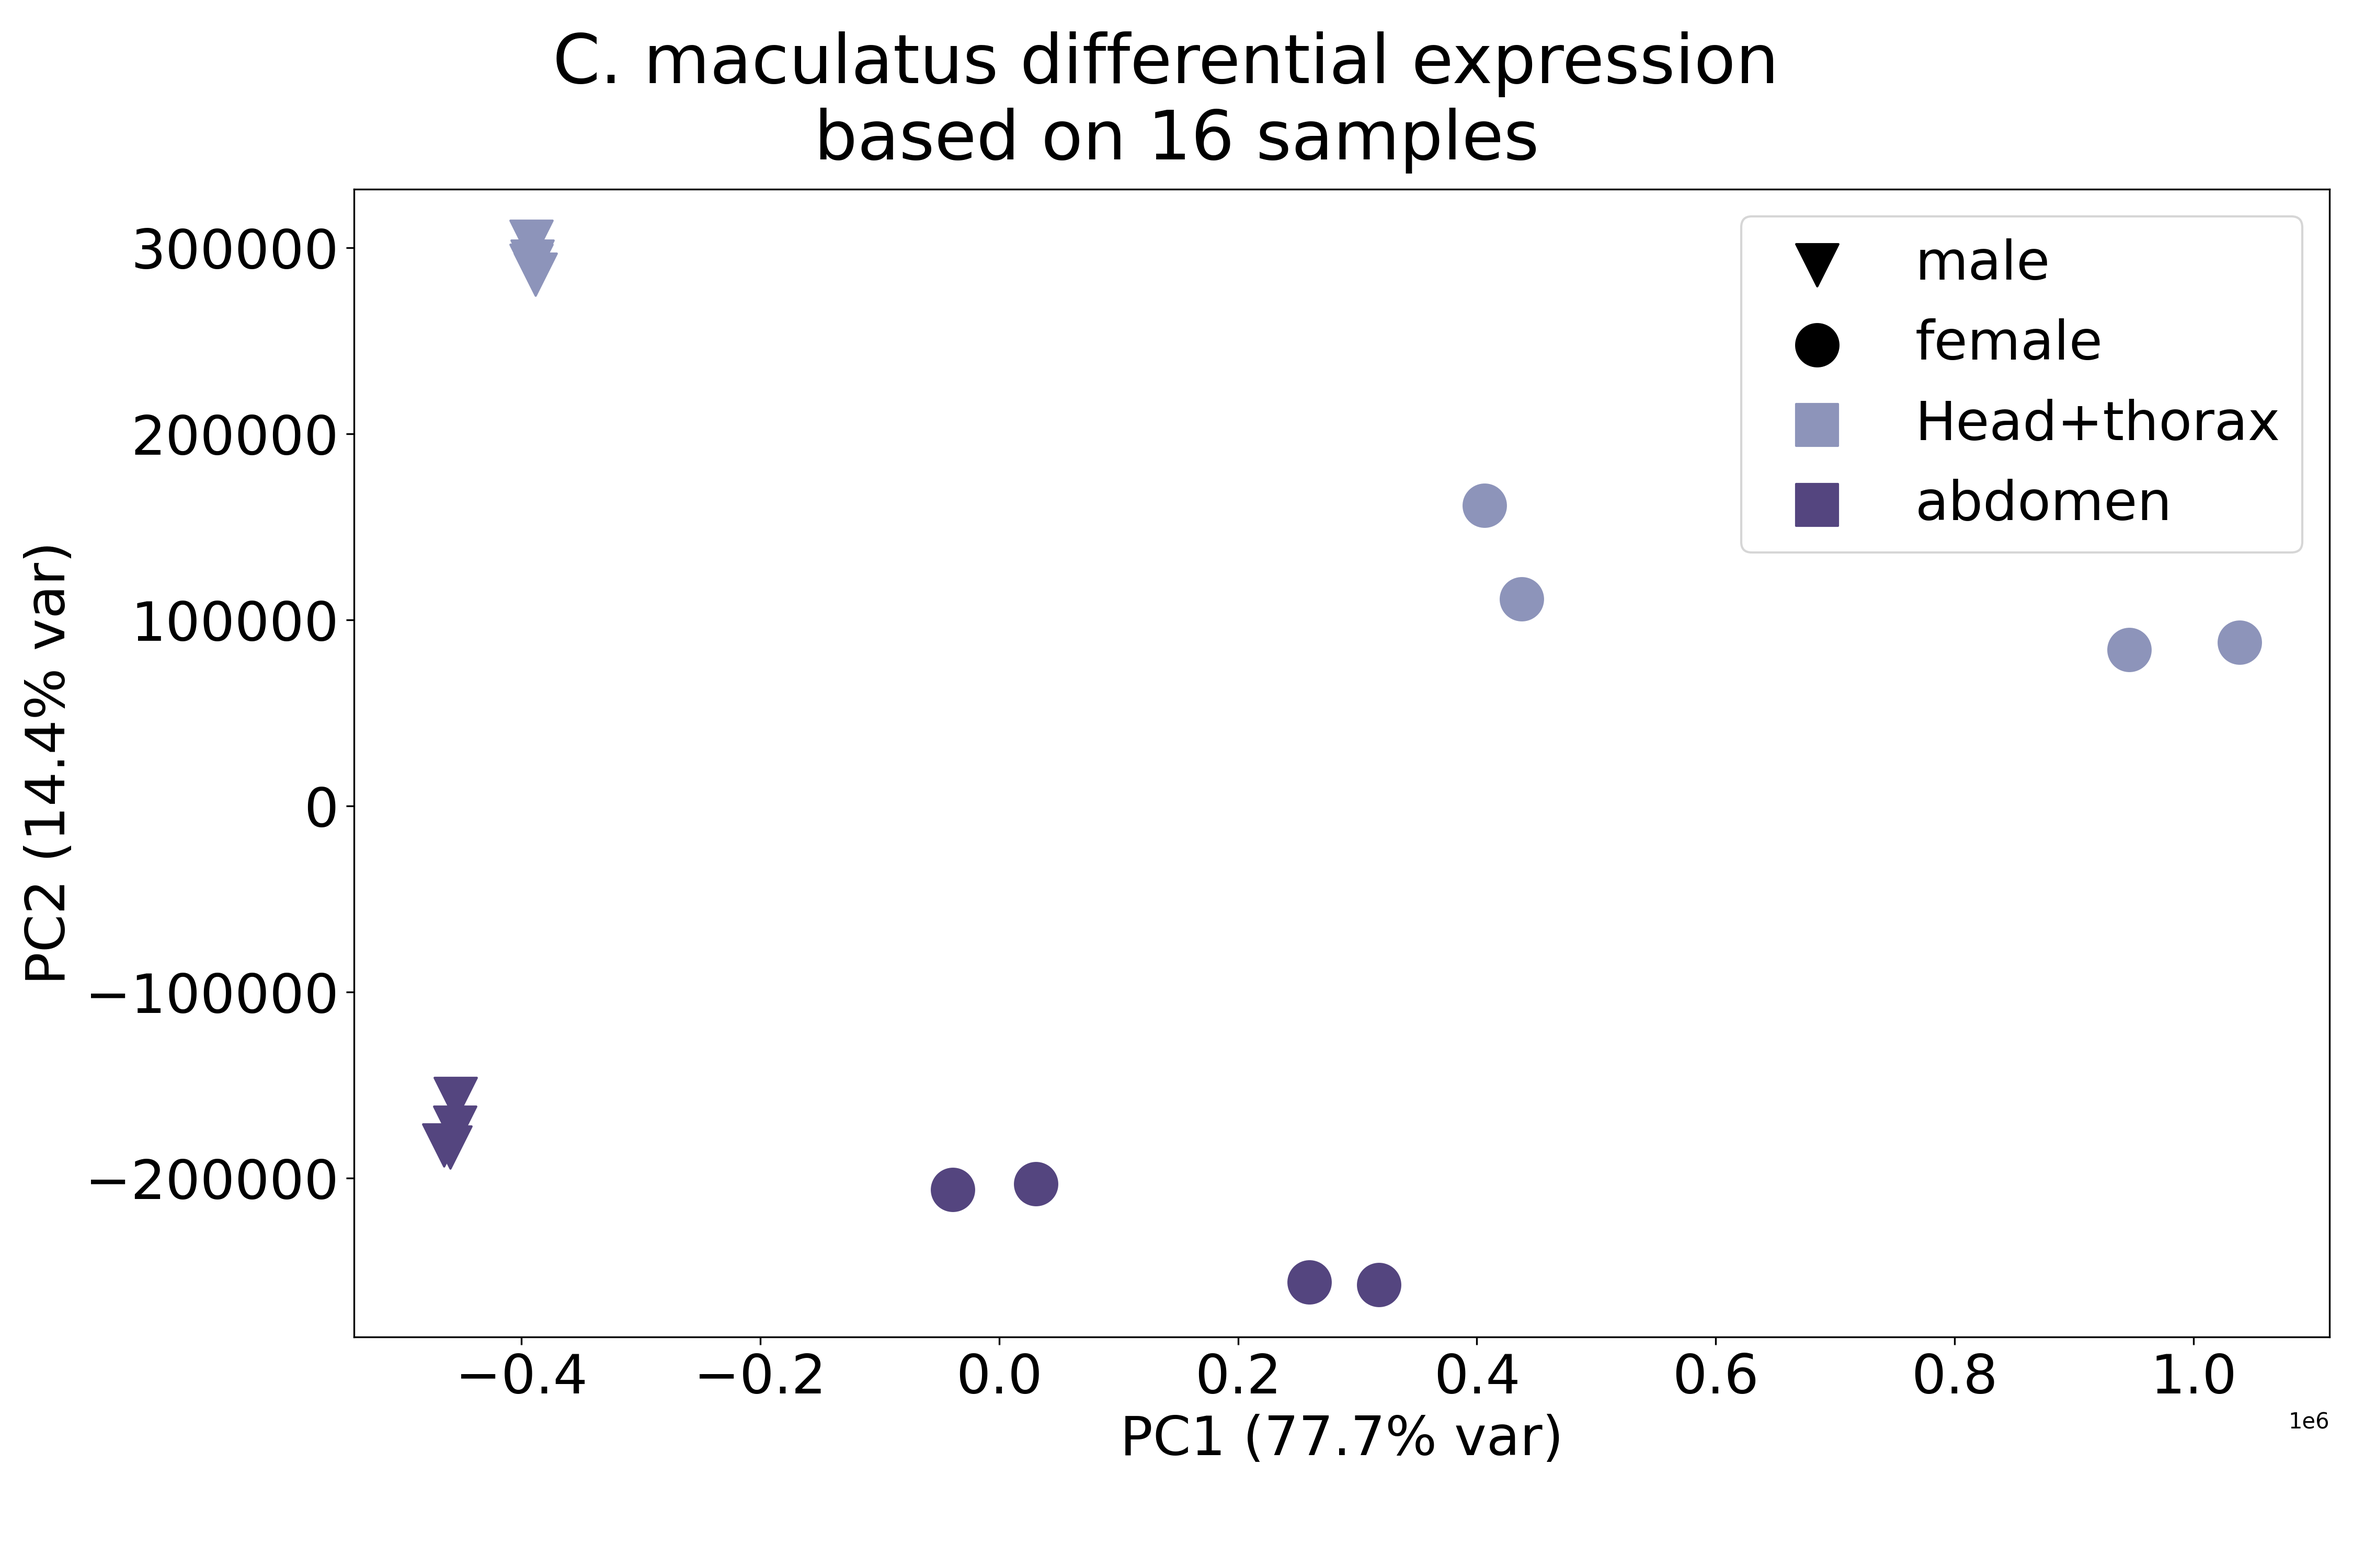
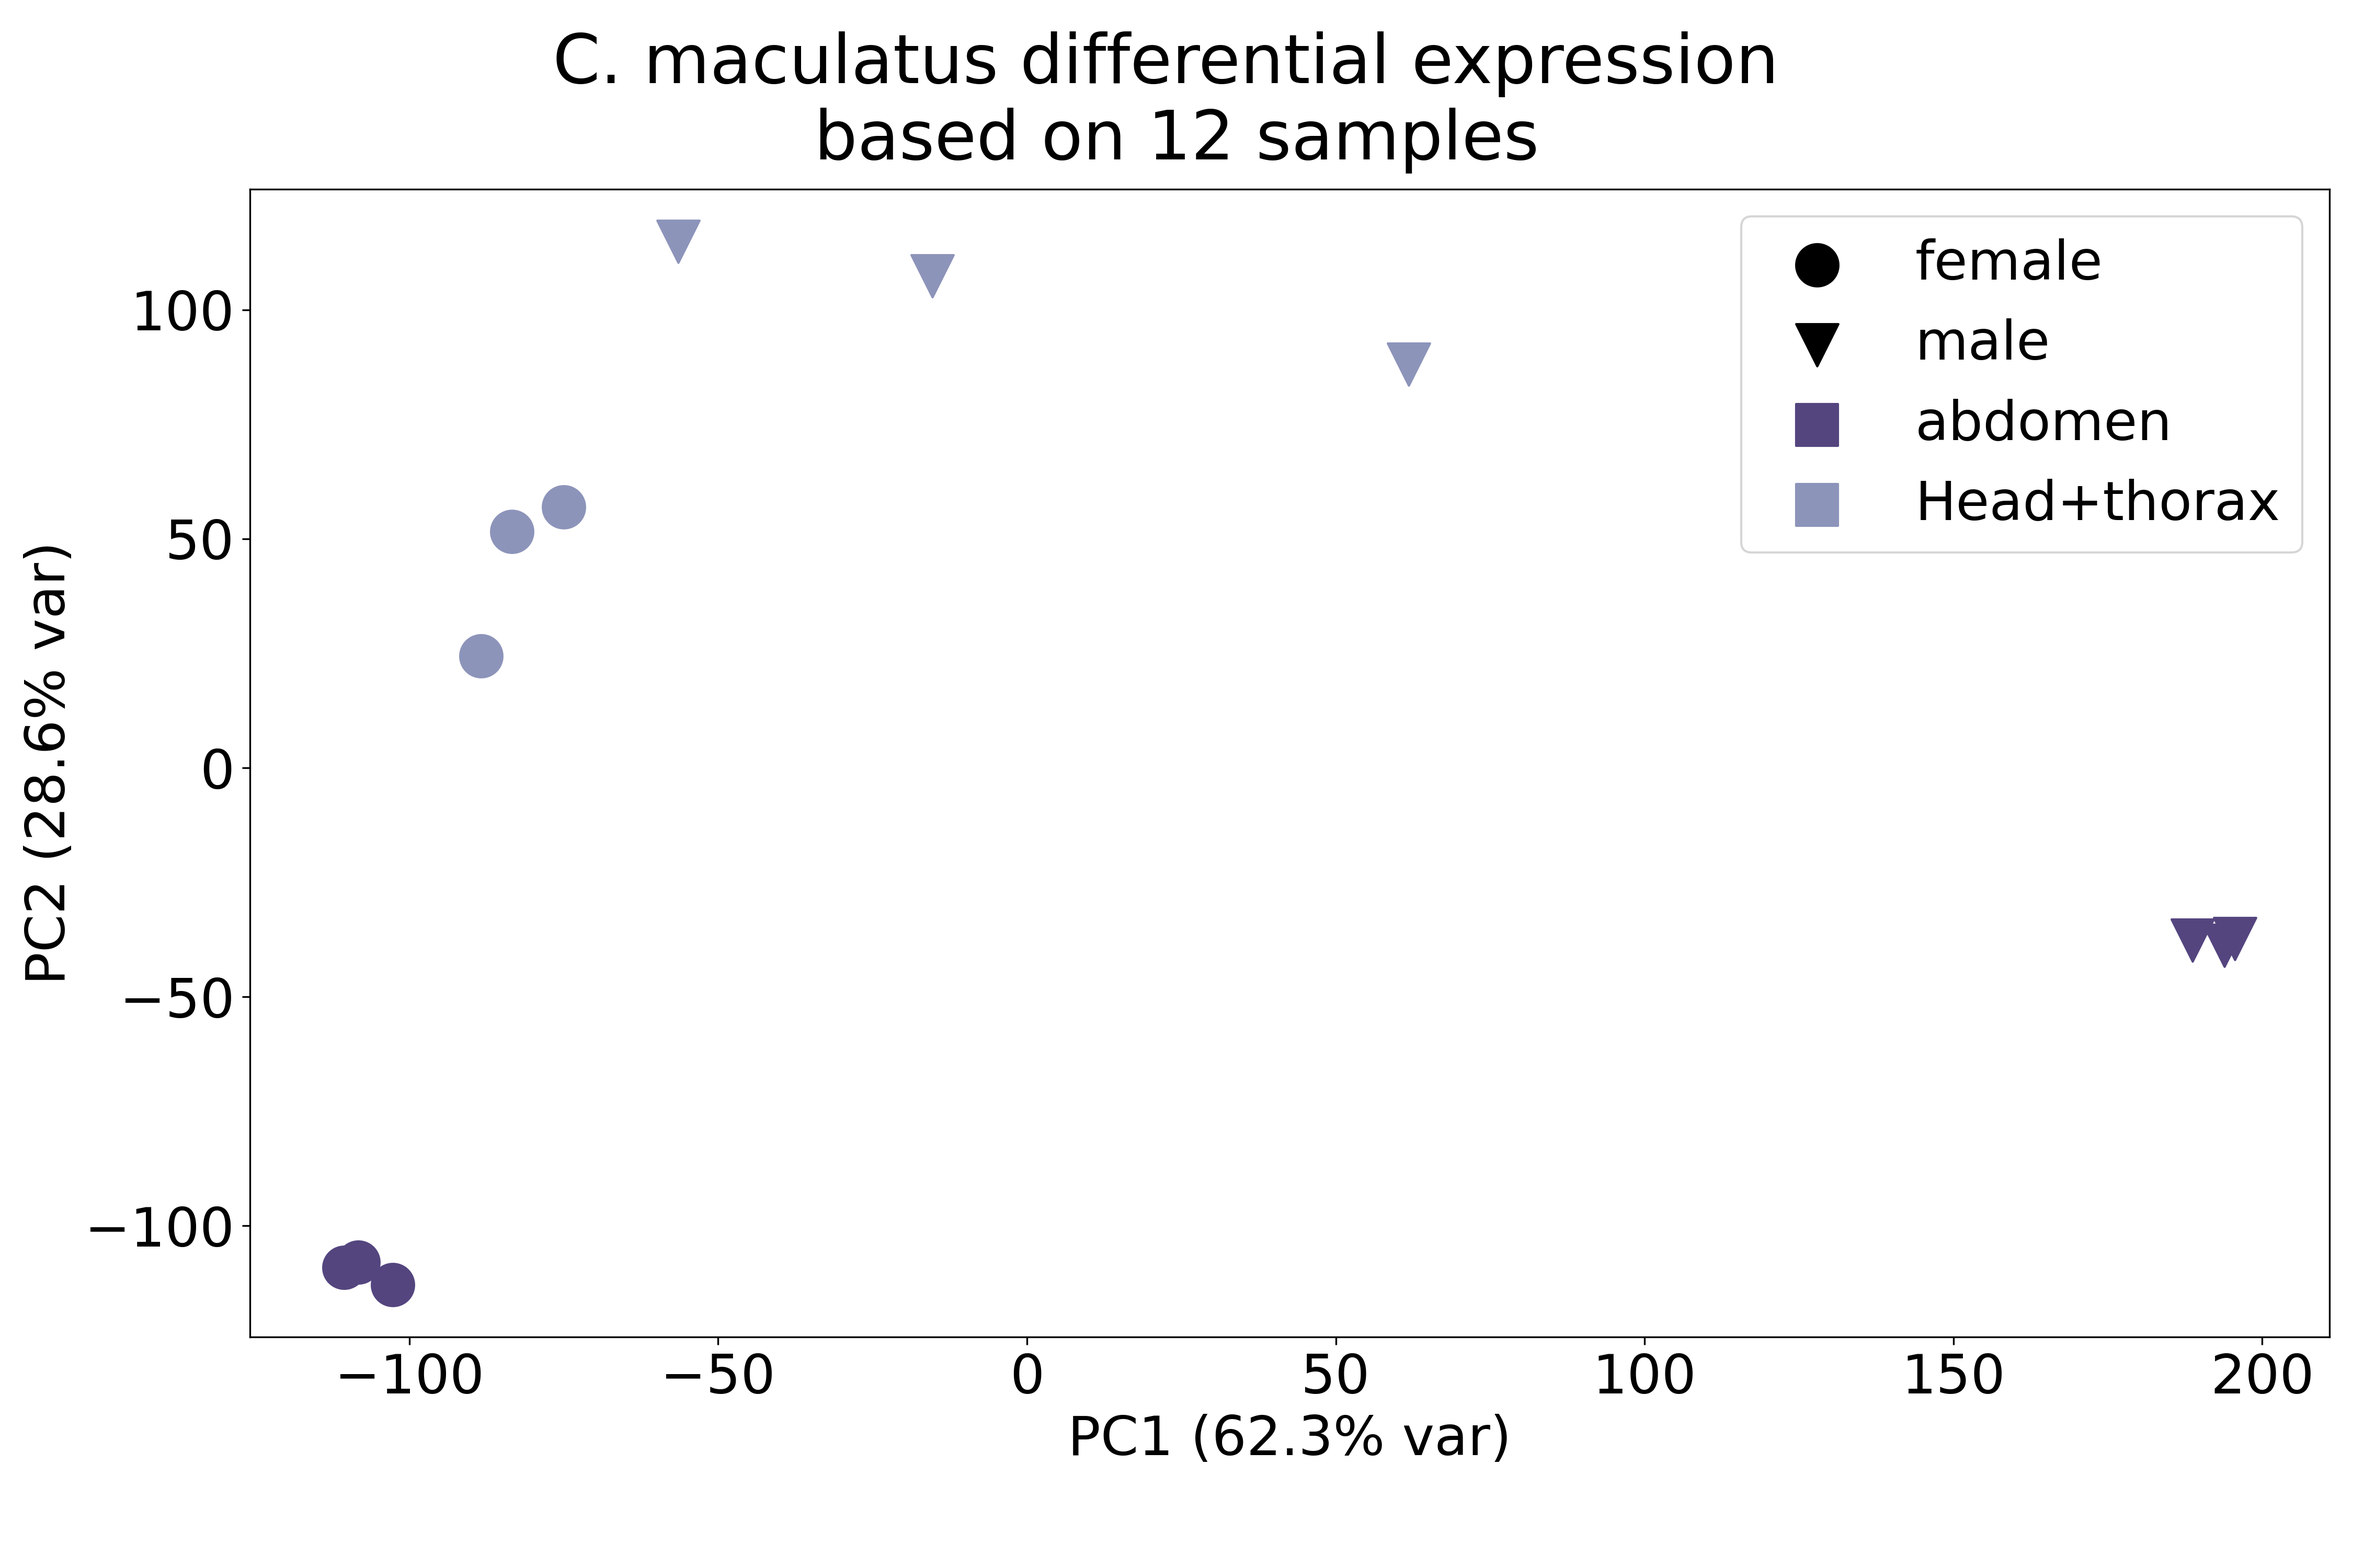
update to edgeR

diff --git a/src/sex_biased_expression.py b/src/sex_biased_expression.py
@@ -15,7 +15,7 @@ import matplotlib.pyplot as plt
 # sed 's|/proj/naiss2023-6-65/Milena/chapter3/RNAseq/Tribolium/star_mapping/picard_marked_indexed/||g' Tcas_gene_counts.txt | sed 's|_marked_duplicates.bam||g' > Tcas_gene_counts_short_headers.txt
 
 # rsync -azP milenatr@pelle.uppmax.uu.se:/proj/naiss2023-6-65/Milena/chapter3/RNAseq/maculatus/gene_counts/gene_counts_standard.txt /Users/miltr339/work/chapter3/DE_analysis/Cmac_gene_counts.txt
-# sed 's|/proj/naiss2023-6-65/Milena/chapter3/RNAseq/maculatus/star_mapping/picard_marked_indexed/||g' Cmac_gene_counts.txt | sed 's|_marked_duplicates.bam||g' > Cmac_gene_counts_short_headers.txt
+# sed 's|/proj/naiss2023-6-65/Milena/chapter3/RNAseq/maculatus/star_mapping/picard_marked_indexed/lanes_merged_||g' Cmac_gene_counts.txt | sed 's|_marked_duplicates.bam||g' > Cmac_gene_counts_short_headers.txt
 
 ## R analysis with DESeq2 according to sebastian's github
 # -Aggregate to transcript level by summing exon counts,
@@ -30,7 +30,7 @@ def counts_paths(username="miltr339"):
         "Csep" : f"/Users/{username}/work/chapter3/DE_analysis/Csep_gene_counts_short_headers.txt"
     }
     VST_paths = {
-        "Cmac" : f"/Users/{username}/work/chapter3/DE_analysis/Cmac_gene_counts_short_headers_vst.txt",
+        "Cmac" : f"/Users/{username}/work/chapter3/DE_analysis/Cmac_gene_counts_edgeR_normalized.txt",
         "Tcas" : f"/Users/{username}/work/chapter3/DE_analysis/Tcas_gene_counts_short_headers_vst.txt",
         "Csep" : f"/Users/{username}/work/chapter3/DE_analysis/Csep_gene_counts_short_headers_vst.txt"
     }
@@ -38,7 +38,7 @@ def counts_paths(username="miltr339"):
 
 def metadata_paths(username="miltr339"):
     metadata = {
-        "Cmac" : f"/Users/{username}/work/PhD_code/PhD_chapter3/data/DE_analysis/metadata/Cmac_full_SRR_list.csv",
+        "Cmac" : f"/Users/{username}/work/PhD_code/PhD_chapter3/data/DE_analysis/metadata/Cmac_SRR_metadata.csv",
         "Tcas" :  f"/Users/{username}/work/PhD_code/PhD_chapter3/data/DE_analysis/metadata/Tcas_full_SRR_list.csv",
         "Csep" :  f"/Users/{username}/work/PhD_code/PhD_chapter3/data/DE_analysis/metadata/Csep_full_SRR_list.csv"
     }
@@ -97,7 +97,7 @@ def read_orthologID_lookup_dict(table_path:str):
             ol_num = ortholog.split("_")[-1]
             association = OrthologTranscripts(species1=f"{g1}_{s1}", species2=f"{g2}_{s2}", trID1=t1, trID2=t2, ortholog_num=ol_num)
             pair = f"{g1}_{s1}_{g2}_{s2}"
-            out_dict[pair][]
+            # out_dict[pair][]
             break
     
     return out_dict
@@ -141,7 +141,7 @@ def plot_PCA_vst_counts(counts_path:str, metadata_path:str, plot_path:str="", co
     norm_counts = pd.read_csv(counts_path, sep="\t", comment="#", index_col=0)
     # read metadata and sort/order according to counts
     metadata = pd.read_csv(metadata_path)
-    metadata = metadata.set_index('Run')
+    metadata = metadata.set_index('ID')
     metadata = metadata.reindex(norm_counts.columns)
     print(metadata)
     # categories = list(metadata.columns)
@@ -149,8 +149,10 @@ def plot_PCA_vst_counts(counts_path:str, metadata_path:str, plot_path:str="", co
     # create transpose
     vst_t = norm_counts.T
     vst_t.columns = vst_t.columns.astype(str) # convert all column names to string
-    pca = PCA(n_components=2)
+    # pca = PCA(n_components=2)
+    pca = PCA()
     pca_scores = pca.fit_transform(vst_t)
+    # print(pca_scores)
 
     pca_df = metadata.copy()
     pca_df['PC1'] = pca_scores[:,0]
@@ -211,11 +213,12 @@ if __name__ == "__main__":
     username = "miltr339"
     ortholog_ID_lookup_tables = lookup_tables(username=username)
 
-    lookup_dict = read_orthologID_lookup_dict(ortholog_ID_lookup_tables["X"])
-    print(lookup_dict)
+    if False:
+        lookup_dict = read_orthologID_lookup_dict(ortholog_ID_lookup_tables["X"])
+        print(lookup_dict)
 
     ### plot PCA
-    if False:
+    if True:
         counts_paths_dict, vst_paths_dict = counts_paths(username=username)
         metadata_paths_dict = metadata_paths(username=username)
         for species in species_list:
